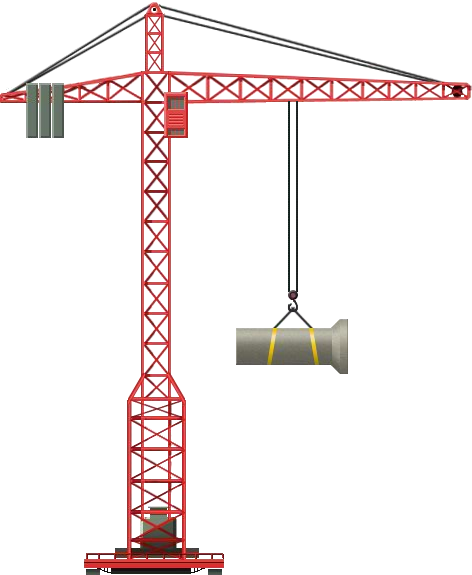
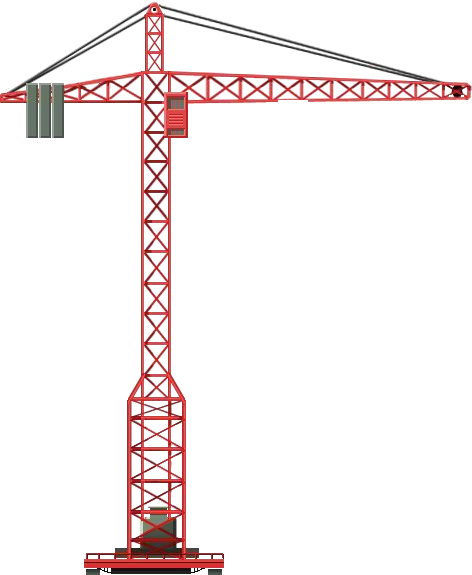
Remove mixer and hanging load from crane hero
Claude-Session: https://claude.ai/code/session_01MCZWHaDfetesrjWMoEE7pi

Changed region(s): [[0.4746, 0.1478, 0.7415, 0.6504]]

diff --git a/components/CraneAnimation.tsx b/components/CraneAnimation.tsx
@@ -1,18 +1,11 @@
 /* eslint-disable @next/next/no-img-element */
 /**
- * Construction site scene: tower crane (jib faces right, away from text)
- * with concrete mixer beside it. Placed on the right side of the hero.
+ * Tower crane (jib faces right, away from text), placed on the right
+ * side of the hero with a gentle float to give the scene life.
  */
 export default function CraneAnimation({ className = "" }: { className?: string }) {
   return (
-    <div className={`flex items-end ${className}`}>
-      {/* Mixer sits beside the crane base */}
-      <img
-        src="/mixer.png"
-        alt="Concrete site mixer"
-        className="crane-float-slow w-auto object-contain drop-shadow-xl self-end"
-        style={{ height: "32%" }}
-      />
+    <div className={`flex items-end justify-end ${className}`}>
       {/* Crane flipped so jib faces right (outward from text) */}
       <img
         src="/crane.png"